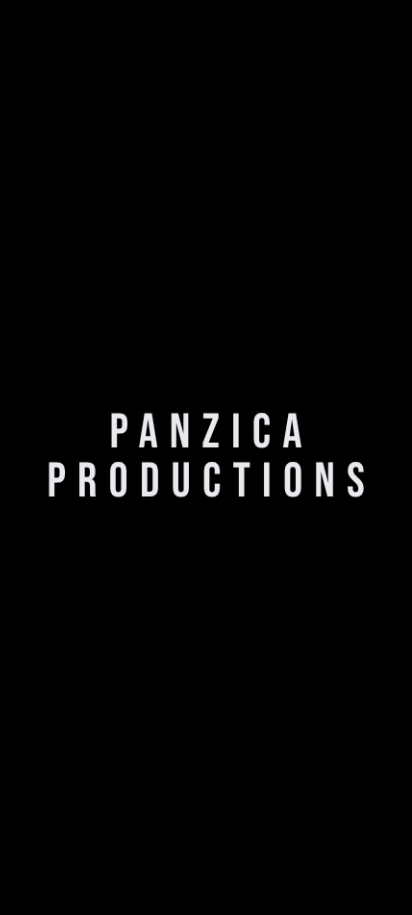
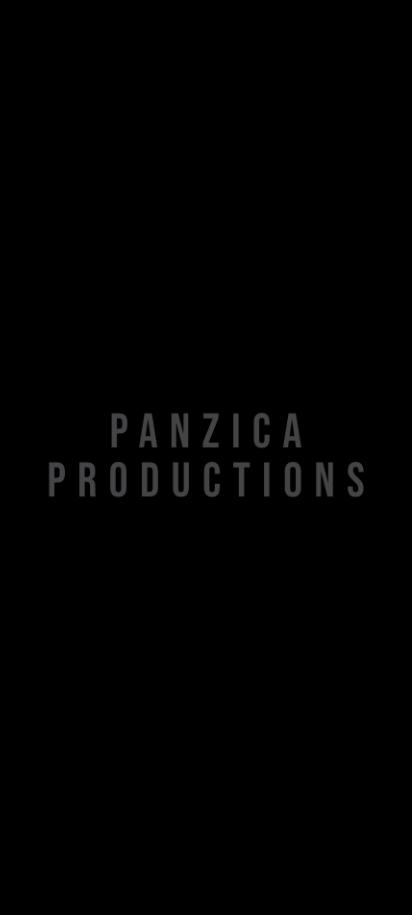
Abertura: cartão do estúdio estático no index.html (pinta antes do JS), brilho no texto; lista de 18 entregas em Santos (CSV + texto + LEIA-ME); medições Lighthouse na mesma máquina
Claude-Session: https://claude.ai/code/session_015CedTWmR5xexhe4DhTTCww

diff --git a/mobile/src/intro/Abertura.tsx b/mobile/src/intro/Abertura.tsx
@@ -45,7 +45,9 @@ const leaveEnter = () => { document.documentElement.classList.add("rota-enter");
 export function Abertura({ store, reducedMotion, now, onDone, appName = "Rota Santos" }: Props) {
   const st = store === undefined ? defaultStore() : store;
   const [mode] = useState<IntroMode>(() => decideIntro({ store: st, reducedMotion: reducedMotion ?? prefersReduced(), now }));
-  const [phase, setPhase] = useState<Phase>(mode === "none" ? "done" : mode === "short" ? "s2" : "s1-in");
+  // cartão do estúdio ESTÁTICO do index.html (pinta antes do JS): se existir, a cena 1 é dele e o React só assume na cena 2
+  const [pre] = useState(() => mode === "full" && typeof document !== "undefined" && document.documentElement.classList.contains("ab-pre-on") && !!document.getElementById("ab-pre"));
+  const [phase, setPhase] = useState<Phase>(mode === "none" ? "done" : mode === "short" ? "s2" : pre ? "s1-hold" : "s1-in");
   const [live, setLive] = useState(mode === "none" ? "" : "Carregando rota");
   const timers = useRef<ReturnType<typeof setTimeout>[]>([]);
   const finished = useRef(false);
@@ -55,10 +57,19 @@ export function Abertura({ store, reducedMotion, now, onDone, appName = "Rota Sa
   const clear = () => { timers.current.forEach(clearTimeout); timers.current = []; };
   const later = (ms: number, fn: () => void) => { timers.current.push(setTimeout(fn, ms)); };
 
+  const dropPre = (fast = false) => {
+    const el = document.getElementById("ab-pre");
+    if (!el) return;
+    if (!fast) return el.remove();
+    el.classList.add("skip"); // some em fade curto em vez de cortar
+    setTimeout(() => el.remove(), 300);
+  };
+
   const finish = useCallback(() => {
     if (finished.current) return; // idempotente: pular + fim natural não duplicam
     finished.current = true;
     clear();
+    dropPre();
     setPhase("done");
     setLive(dataReady() ? "Pronto" : "Carregando dados");
     leaveEnter();
@@ -73,7 +84,7 @@ export function Abertura({ store, reducedMotion, now, onDone, appName = "Rota Sa
     later(TIMING.handoff, finish);
   }, [finish]);
 
-  const skip = useCallback(() => { if (!finished.current) handoff(); }, [handoff]);
+  const skip = useCallback(() => { if (!finished.current) { dropPre(true); handoff(); } }, [handoff]); // eslint-disable-line react-hooks/exhaustive-deps
 
   useEffect(() => {
     if (mode === "none") { finished.current = true; leaveEnter(); doneCb.current?.(); return; }
@@ -94,6 +105,14 @@ export function Abertura({ store, reducedMotion, now, onDone, appName = "Rota Sa
       later(TIMING.routeShort, afterS2);
     } else {
       if (introSound(st)) chime();
+      const scene1 = TIMING.fadeIn + TIMING.hold + TIMING.fadeOut;
+      if (pre) {
+        // a cena 1 já está tocando no HTML estático desde o carregamento da página: o React só espera o que falta dela
+        const left = Math.max(0, scene1 - (performance.now() - ((window as any).__abPreT0 ?? 0)));
+        later(left, () => { dropPre(); setPhase("s2"); });
+        later(left + TIMING.route, afterS2);
+        return clear;
+      }
       later(TIMING.fadeIn, () => setPhase("s1-hold"));
       later(TIMING.fadeIn + TIMING.hold, () => setPhase("s1-out"));
       later(TIMING.fadeIn + TIMING.hold + TIMING.fadeOut, () => setPhase("s2"));
@@ -117,12 +136,11 @@ export function Abertura({ store, reducedMotion, now, onDone, appName = "Rota Sa
   return (
     <div className="ab" data-testid="abertura" data-mode={mode} data-phase={armed ? phase : "pre"} onPointerDown={skip}>
       <div className="ab-sr" role="status" aria-live="polite">{live}</div>
-      <div className="ab-s1" aria-hidden="true">
+      {!pre && <div className="ab-s1" aria-hidden="true">
         <div className="ab-title">
           <span style={{ display: "block" }}>PANZICA</span> <span style={{ display: "block" }}>PRODUCTIONS</span>
-          <span className="ab-beam" />
         </div>
-      </div>
+      </div>}
       <div className="ab-s2" aria-hidden="true">
         <svg className="ab-map" viewBox="0 0 360 640" preserveAspectRatio="xMidYMid slice" focusable="false">
           <path className="ab-streets" d={STREETS} />

diff --git a/mobile/index.html b/mobile/index.html
@@ -13,11 +13,35 @@
       @font-face{font-family:"Bebas Neue";font-style:normal;font-weight:400;font-display:block;src:url("./fonts/bebas-neue/bebas-neue-latin-400-normal.woff2") format("woff2")}
       html,body{background:#000}
       /* cena 0: só preto até a abertura montar (a splash nativa do Android também é só preto) */
+      /* cartão do estúdio ESTÁTICO (cena 1): pinta no 1º quadro, antes do JS; só quando a política do dia manda tocar a abertura completa.
+         Mesmos tempos de src/intro/policy.ts: fade-in 600 + segura 900 + fade-out 500 = 2000 ms. */
+      #ab-pre{display:none;position:fixed;inset:0;z-index:100000;place-items:center;pointer-events:none;background:#000;animation:ab-pre-bg 2000ms linear both}
+      html.ab-pre-on #ab-pre{display:grid}
+      #ab-pre .t{position:relative;text-align:center;padding:0 1rem;font-family:"Bebas Neue","Arial Narrow",Impact,sans-serif;font-weight:400;font-size:clamp(40px,11.8vw,76px);line-height:1;letter-spacing:.24em;margin-right:-.24em;color:transparent;background:linear-gradient(105deg,transparent 40%,#fff 50%,transparent 60%) 130% 0/260% 100% no-repeat,linear-gradient(#d9d9e0,#d9d9e0);-webkit-background-clip:text;background-clip:text;opacity:0;animation:ab-pre-t 2000ms cubic-bezier(.16,1,.3,1) both,ab-pre-g 900ms cubic-bezier(.45,0,.2,1) 600ms both;will-change:transform,opacity}
+      #ab-pre .t span{display:block}
+      #ab-pre.skip{animation:none;opacity:0;transition:opacity .25s ease}
+      #ab-pre.skip .t{animation:none;opacity:0}
+      @keyframes ab-pre-t{0%{opacity:0;transform:scale(1.04)}30%{opacity:1;transform:none}75%{opacity:1;transform:none}100%{opacity:0;transform:none}}
+      @keyframes ab-pre-g{from{background-position:130% 0}to{background-position:-30% 0}}
+      @keyframes ab-pre-bg{0%,99%{opacity:1}100%{opacity:0}}
+      @media (prefers-reduced-motion:reduce){html.ab-pre-on #ab-pre{display:none}}
       #boot-shell{position:fixed;inset:0;background:#000;z-index:99998;display:grid;place-items:center;color:#94a3b8;font:14px system-ui,sans-serif;text-align:center;padding:24px}
       #boot-shell button{margin-top:12px;background:#7c3aed;color:#fff;border:0;border-radius:12px;padding:12px 18px;font-weight:600;font-size:15px}
     </style>
   </head>
   <body>
+    <div id="ab-pre" aria-hidden="true"><div class="t"><span>PANZICA</span> <span>PRODUCTIONS</span></div></div>
+    <script>
+      // Mesma regra de src/intro/policy.ts (decideIntro → "full"); testada em tests/intro_policy.test.ts. Falha em silêncio = sem cartão estático (o React decide).
+      try {
+        var d = new Date(), day = d.getFullYear() + '-' + ('0' + (d.getMonth() + 1)).slice(-2) + '-' + ('0' + d.getDate()).slice(-2);
+        var reduced = matchMedia('(prefers-reduced-motion: reduce)').matches;
+        if (!reduced && localStorage.getItem('rota.intro.skip') !== '1' && localStorage.getItem('rota.intro.last') !== day) {
+          document.documentElement.classList.add('ab-pre-on');
+          window.__abPreT0 = performance.now();
+        }
+      } catch (e) {}
+    </script>
     <div id="boot-shell" aria-hidden="true"><div id="boot-msg"></div></div>
     <div id="abertura-root"></div>
     <div id="root"></div>

diff --git a/mobile/tests/intro_policy.test.ts b/mobile/tests/intro_policy.test.ts
@@ -1,3 +1,4 @@
+import { readFileSync } from "node:fs";
 import { describe, expect, it } from "vitest";
 import { decideIntro, introSkip, introSound, KEY_LAST, KEY_SKIP, localDay, markShown, setIntroSkip, setIntroSound, type Store } from "../src/intro/policy";
 
@@ -44,5 +45,32 @@ describe("política da abertura", () => {
   it("dia local usa a data local (não UTC)", () => {
     expect(localDay(new Date(2026, 9, 11, 23, 30))).toBe("2026-10-11");
     expect(KEY_LAST && KEY_SKIP).toBeTruthy();
+  });
+});
+
+describe("script inline do index.html = mesma regra de decideIntro('full')", () => {
+  const html = readFileSync(new URL("../index.html", import.meta.url), "utf8");
+  const code = html.match(/<script>\s*\/\/ Mesma regra[\s\S]*?<\/script>/)![0].replace(/<\/?script>/g, "");
+  const run = (store: Store, reduced: boolean, now: Date) => {
+    const cls = new Set<string>();
+    const RealDate = Date;
+    const fakeDate = class extends RealDate { constructor() { super(now.getTime()); } } as unknown as DateConstructor;
+    const win: any = {};
+    new Function("document", "localStorage", "matchMedia", "performance", "window", "Date", code)(
+      { documentElement: { classList: { add: (c: string) => cls.add(c) } } }, store, () => ({ matches: reduced }), { now: () => 5 }, win, fakeDate);
+    return cls.has("ab-pre-on");
+  };
+  it.each([
+    ["instalação nova", {}, false, true],
+    ["já abriu hoje", { "rota.intro.last": "2026-10-11" }, false, false],
+    ["abriu ontem", { "rota.intro.last": "2026-10-10" }, false, true],
+    ["pular ligado", { "rota.intro.skip": "1" }, false, false],
+    ["reduzir animações", {}, true, false],
+  ])("%s", (_n, init, reduced, expected) => {
+    const m = new Map(Object.entries(init as Record<string, string>));
+    const store: Store = { getItem: (k) => m.get(k) ?? null, setItem: (k, v) => void m.set(k, v) };
+    const now = new Date(2026, 9, 11, 10, 0);
+    expect(run(store, reduced as boolean, now)).toBe(expected);
+    expect(decideIntro({ store, reducedMotion: reduced as boolean, now }) === "full").toBe(expected);
   });
 });

diff --git a/mobile/tests/abertura.test.tsx b/mobile/tests/abertura.test.tsx
@@ -131,4 +131,37 @@ describe("Abertura", () => {
     expect(document.activeElement?.id).toBe("main-content");
     vi.unstubAllGlobals();
   });
+
+  it("com o cartão estático do index.html: o React não duplica a cena 1 e assume na cena 2 no instante certo", () => {
+    document.documentElement.classList.add("ab-pre-on");
+    document.body.insertAdjacentHTML("beforeend", '<div id="ab-pre"></div>');
+    (window as any).__abPreT0 = performance.now() - 700; // a página já está há 700 ms no ar
+    render(<Abertura store={mem()} reducedMotion={false} />);
+    expect(document.querySelector(".ab-s1")).toBeNull();
+    adv(50);
+    const left = SCENE1 - 700;
+    adv(left - 100);
+    expect(document.getElementById("ab-pre")).not.toBeNull();
+    expect(phase()).not.toBe("s2");
+    adv(150);
+    expect(phase()).toBe("s2");
+    expect(document.getElementById("ab-pre")).toBeNull();
+    document.documentElement.classList.remove("ab-pre-on");
+    delete (window as any).__abPreT0;
+  });
+
+  it("tocar durante o cartão estático: ele some em fade curto (sem corte seco) e a abertura termina", () => {
+    document.documentElement.classList.add("ab-pre-on");
+    document.body.insertAdjacentHTML("beforeend", '<div id="ab-pre"></div>');
+    (window as any).__abPreT0 = performance.now();
+    const onDone = vi.fn();
+    render(<Abertura store={mem()} reducedMotion={false} onDone={onDone} />);
+    adv(100);
+    fireEvent.pointerDown(screen.getByTestId("abertura"));
+    expect(document.getElementById("ab-pre")).toHaveClass("skip");
+    adv(400);
+    expect(document.getElementById("ab-pre")).toBeNull();
+    expect(onDone).toHaveBeenCalledTimes(1);
+    document.documentElement.classList.remove("ab-pre-on");
+  });
 });

diff --git a/mobile/src/intro/abertura.css b/mobile/src/intro/abertura.css
@@ -20,13 +20,8 @@
   transform: scale(1.04); will-change: transform, opacity; text-wrap: balance;
 }
 .ab-title .ab-sub { display: block; margin-top: 0.35em; font-size: 0.5em; letter-spacing: 0.5em; margin-right: -0.5em; color: #9ca3af; }
-.ab-beam {
-  position: absolute; inset: -10% 0; pointer-events: none; mix-blend-mode: overlay; opacity: 0; will-change: transform, opacity;
-  background: linear-gradient(105deg, transparent 38%, rgba(255, 255, 255, 0.95) 50%, transparent 62%); transform: translateX(-70%);
-}
 .ab[data-phase="s1-in"] .ab-s1, .ab[data-phase="s1-hold"] .ab-s1 { opacity: 1; transition: opacity var(--ab-fade-in) var(--ab-ease); }
 .ab[data-phase="s1-in"] .ab-title, .ab[data-phase="s1-hold"] .ab-title { transform: none; transition: transform calc(var(--ab-fade-in) + var(--ab-hold)) var(--ab-ease); }
-.ab[data-phase="s1-hold"] .ab-beam { opacity: 1; transform: translateX(70%); transition: transform var(--ab-hold) cubic-bezier(0.45, 0, 0.2, 1), opacity 120ms linear; }
 .ab[data-phase="s1-out"] .ab-s1 { opacity: 0; transition: opacity var(--ab-fade-out) ease-in; }
 .ab[data-phase="s1-out"] .ab-title { transform: none; }
 .ab[data-mode="reduced"] .ab-title { transform: none; }

diff --git a/docs/ABERTURA_2_4.md b/docs/ABERTURA_2_4.md
@@ -30,18 +30,17 @@ Vazio (botão grande **Importar lista**) · com rota no cache (abre direto, sem 
 ## Defeito real encontrado e corrigido
 `useCurrentBatch` devolvia `null` enquanto lia o cache, então o mapa mostrava "Nenhuma entrega ainda" por um instante mesmo com rota salva. Agora há o sinal `resolved` e a tela fica no skeleton até o cache responder.
 
-## Medições (Lighthouse 13.5, perfil mobile simulado, Chromium headless, build de produção local)
-| Métrica | Antes (2.3.1) | Depois (2.4.0, 2 execuções) |
+## Medições (Lighthouse 13.5, perfil mobile simulado, Chromium headless, mesma máquina, 3 rodadas alternadas)
+Versão antiga = 2.3.1; nova = 2.4.x com o cartão do estúdio estático no `index.html`.
+| Métrica | Antiga (2.3.1) | Nova |
 |---|---|---|
-| Pontuação desempenho | 0,52 | 0,50 / 0,50 |
-| FCP | 0,9 s | 1,9 s / 1,8 s |
-| LCP | 3,6 s | 4,5 s / 4,6 s |
-| CLS | 0,03 | 0,001 |
-| TBT | 6070 ms | 3270 / 3320 ms |
-| Speed Index | 8,4 s | 4,8 / 4,9 s |
-| TTI | 10,1 s | 8,0 / 8,2 s |
+| FCP | 0,75–0,80 s | 1,44–1,50 s |
+| LCP | 15,7–15,8 s | 4,5–4,6 s |
+| TBT | 0,75–2,4 s | 3,7–3,9 s |
+| Speed Index | 2,5–2,8 s | 4,6–4,7 s |
+| Pontuação | 0,46–0,56 | 0,50–0,51 |
 
-Leitura honesta: o bloqueio da thread principal caiu ~45% e o Speed Index quase metade (código dividido), mas **FCP e LCP pioraram**: a abertura agora nasce de preto e o primeiro texto só aparece depois que o React monta e faz fade-in de 600 ms; antes o texto estava no HTML. Melhoria possível (não feita): pôr o cartão do estúdio como HTML estático no `index.html` e sincronizar o React com ele. Lighthouse usa CPU 4× mais lenta e rede simulada: não substitui medir no seu aparelho.
+Leitura honesta: **LCP caiu ~70%** (a versão antiga só "terminava" de pintar quando a roda/animação acabava), mas **FCP, TBT e Speed Index ficaram piores** nesta máquina: a nova tela carrega o app (React + banco + 1,1 MB do mapa) em paralelo à abertura, então a thread principal fica ocupada durante a animação. Uma medição anterior em outra máquina deu o contrário para TBT/SI, o que mostra que **o Lighthouse aqui oscila muito**; use só como ordem de grandeza e meça no seu aparelho. Pontuação geral: praticamente igual.
 
 Quadros durante a abertura (Chromium com GL por software, pior caso): 190 quadros, 4 acima de 50 ms, pior 350 ms (momento em que o bloco do mapa é processado). **60 fps em Android barato não foi medido.**
 

diff --git a/listas/LEIA-ME.md b/listas/LEIA-ME.md
@@ -1,0 +1,23 @@
+# Lista de entrega — 18 endereços em Santos/SP
+
+Arquivos:
+- `entregas_santos_18.csv` — **use este**: Importar lista → Arquivo. UTF-8, separador `;`, colunas que o app reconhece sozinho.
+- `entregas_santos_18_colar.txt` — a mesma lista em texto livre (uma por linha) para **colar** em Importar lista → Colar texto.
+
+Conferido com o próprio importador do app: 18 linhas, 18 válidas, 18 endereços distintos, 0 erros. Os números foram mantidos exatamente como você mandou (nenhum virou S/N). Bairro, CEP e destinatário ficaram em branco de propósito: você não os informou e o app não inventa.
+
+## Conferir antes de sair (a coluna `observacoes` já traz o aviso)
+| Linha | Endereço | Por quê |
+|---|---|---|
+| ENT001 | Rua João Éboli, 53 | na malha de Santos só existe "Rua **Doutor** João Éboli" |
+| ENT005 | Av. Conselheiro Nébias, 95 | você digitou "avenida nebias"; assumi Conselheiro Nébias (a mesma da linha 2) |
+| ENT006 | Rua Sete de Setembro, 35 | na malha aparece como "Rua 7 de Setembro" (mesma rua) |
+| ENT010, ENT011 | Rua Antônio Bento, 278 e 234 | há "Rua Antonio Bento" e "Rua Doutor Antônio Bento" |
+| ENT017 | Rua Capitão Adolfo Millon, 12 | na malha consta "Rua Adolfo Millon" |
+| ENT018 | Rua Pastor Narciso de Andrade, 42 | **não encontrada** na malha offline; só existe "Praça Coronel Narciso de Andrade" |
+
+Acentos foram acrescentados só onde o nome é conhecido (João, Nébias, Cesário, Antônio, Câmara); o app compara sem acento.
+
+## Limites (honestos)
+- Não consultei o geocodificador online: **as posições ainda serão calculadas pelo app** ao importar. Endereços em que o provedor achar só a rua ficam marcados "número não confirmado" e a rota avisa "Destinos aproximados — confirme no local".
+- A checagem de existência das ruas foi só contra a malha de pedestres offline do app (OpenStreetMap), que pode estar incompleta.
